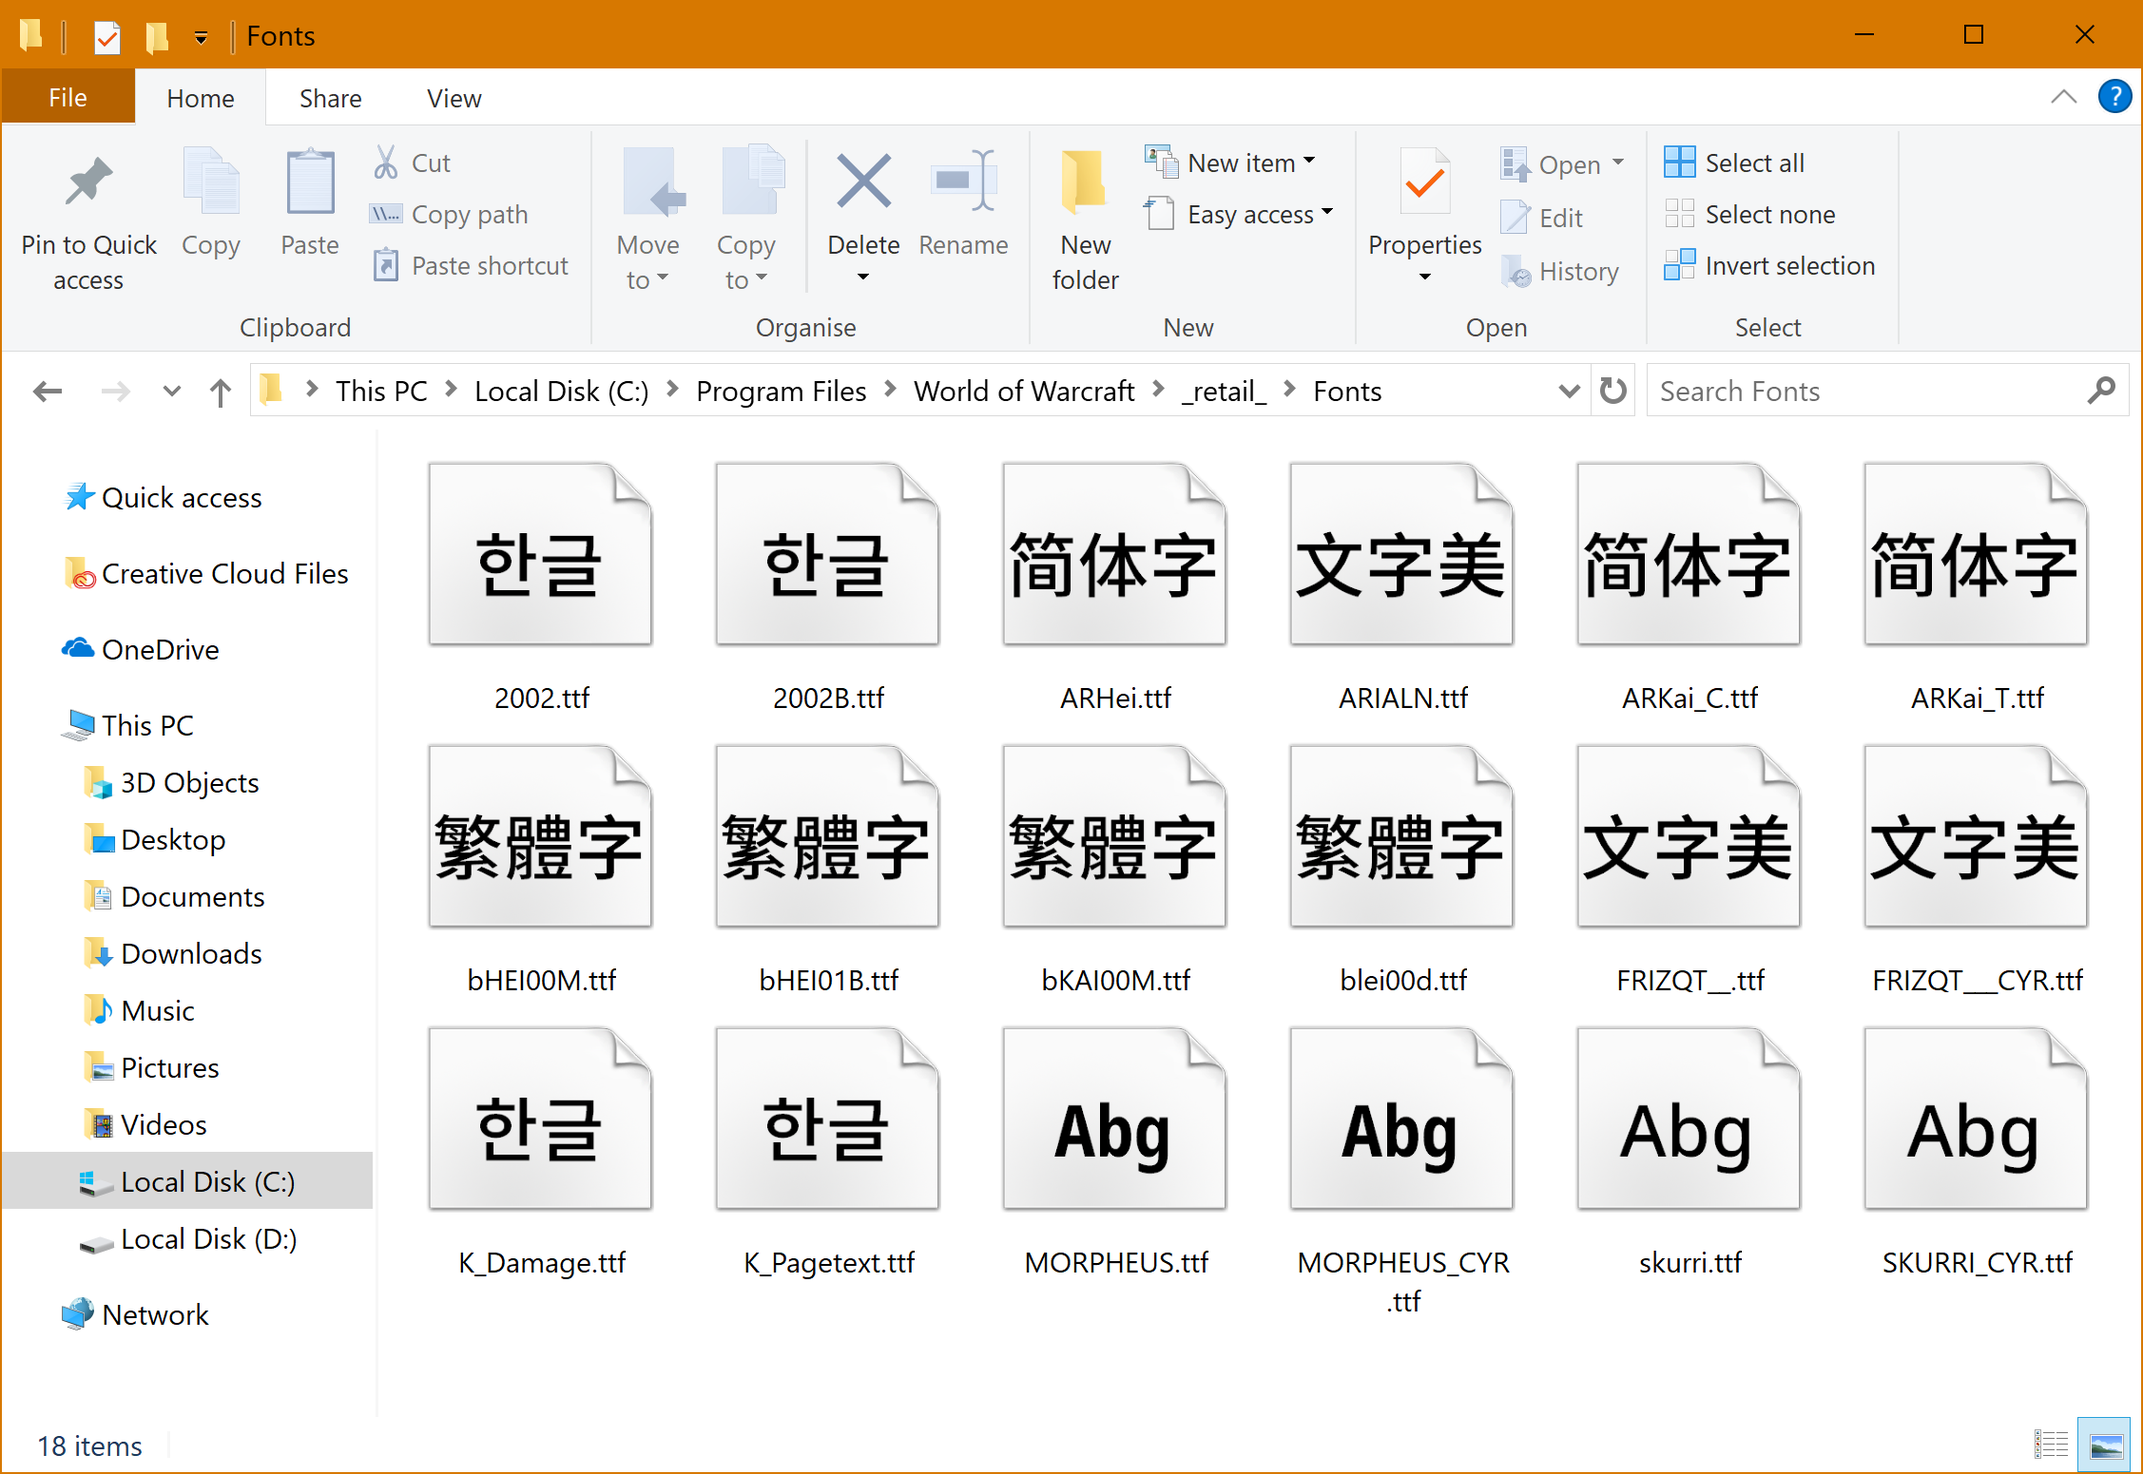
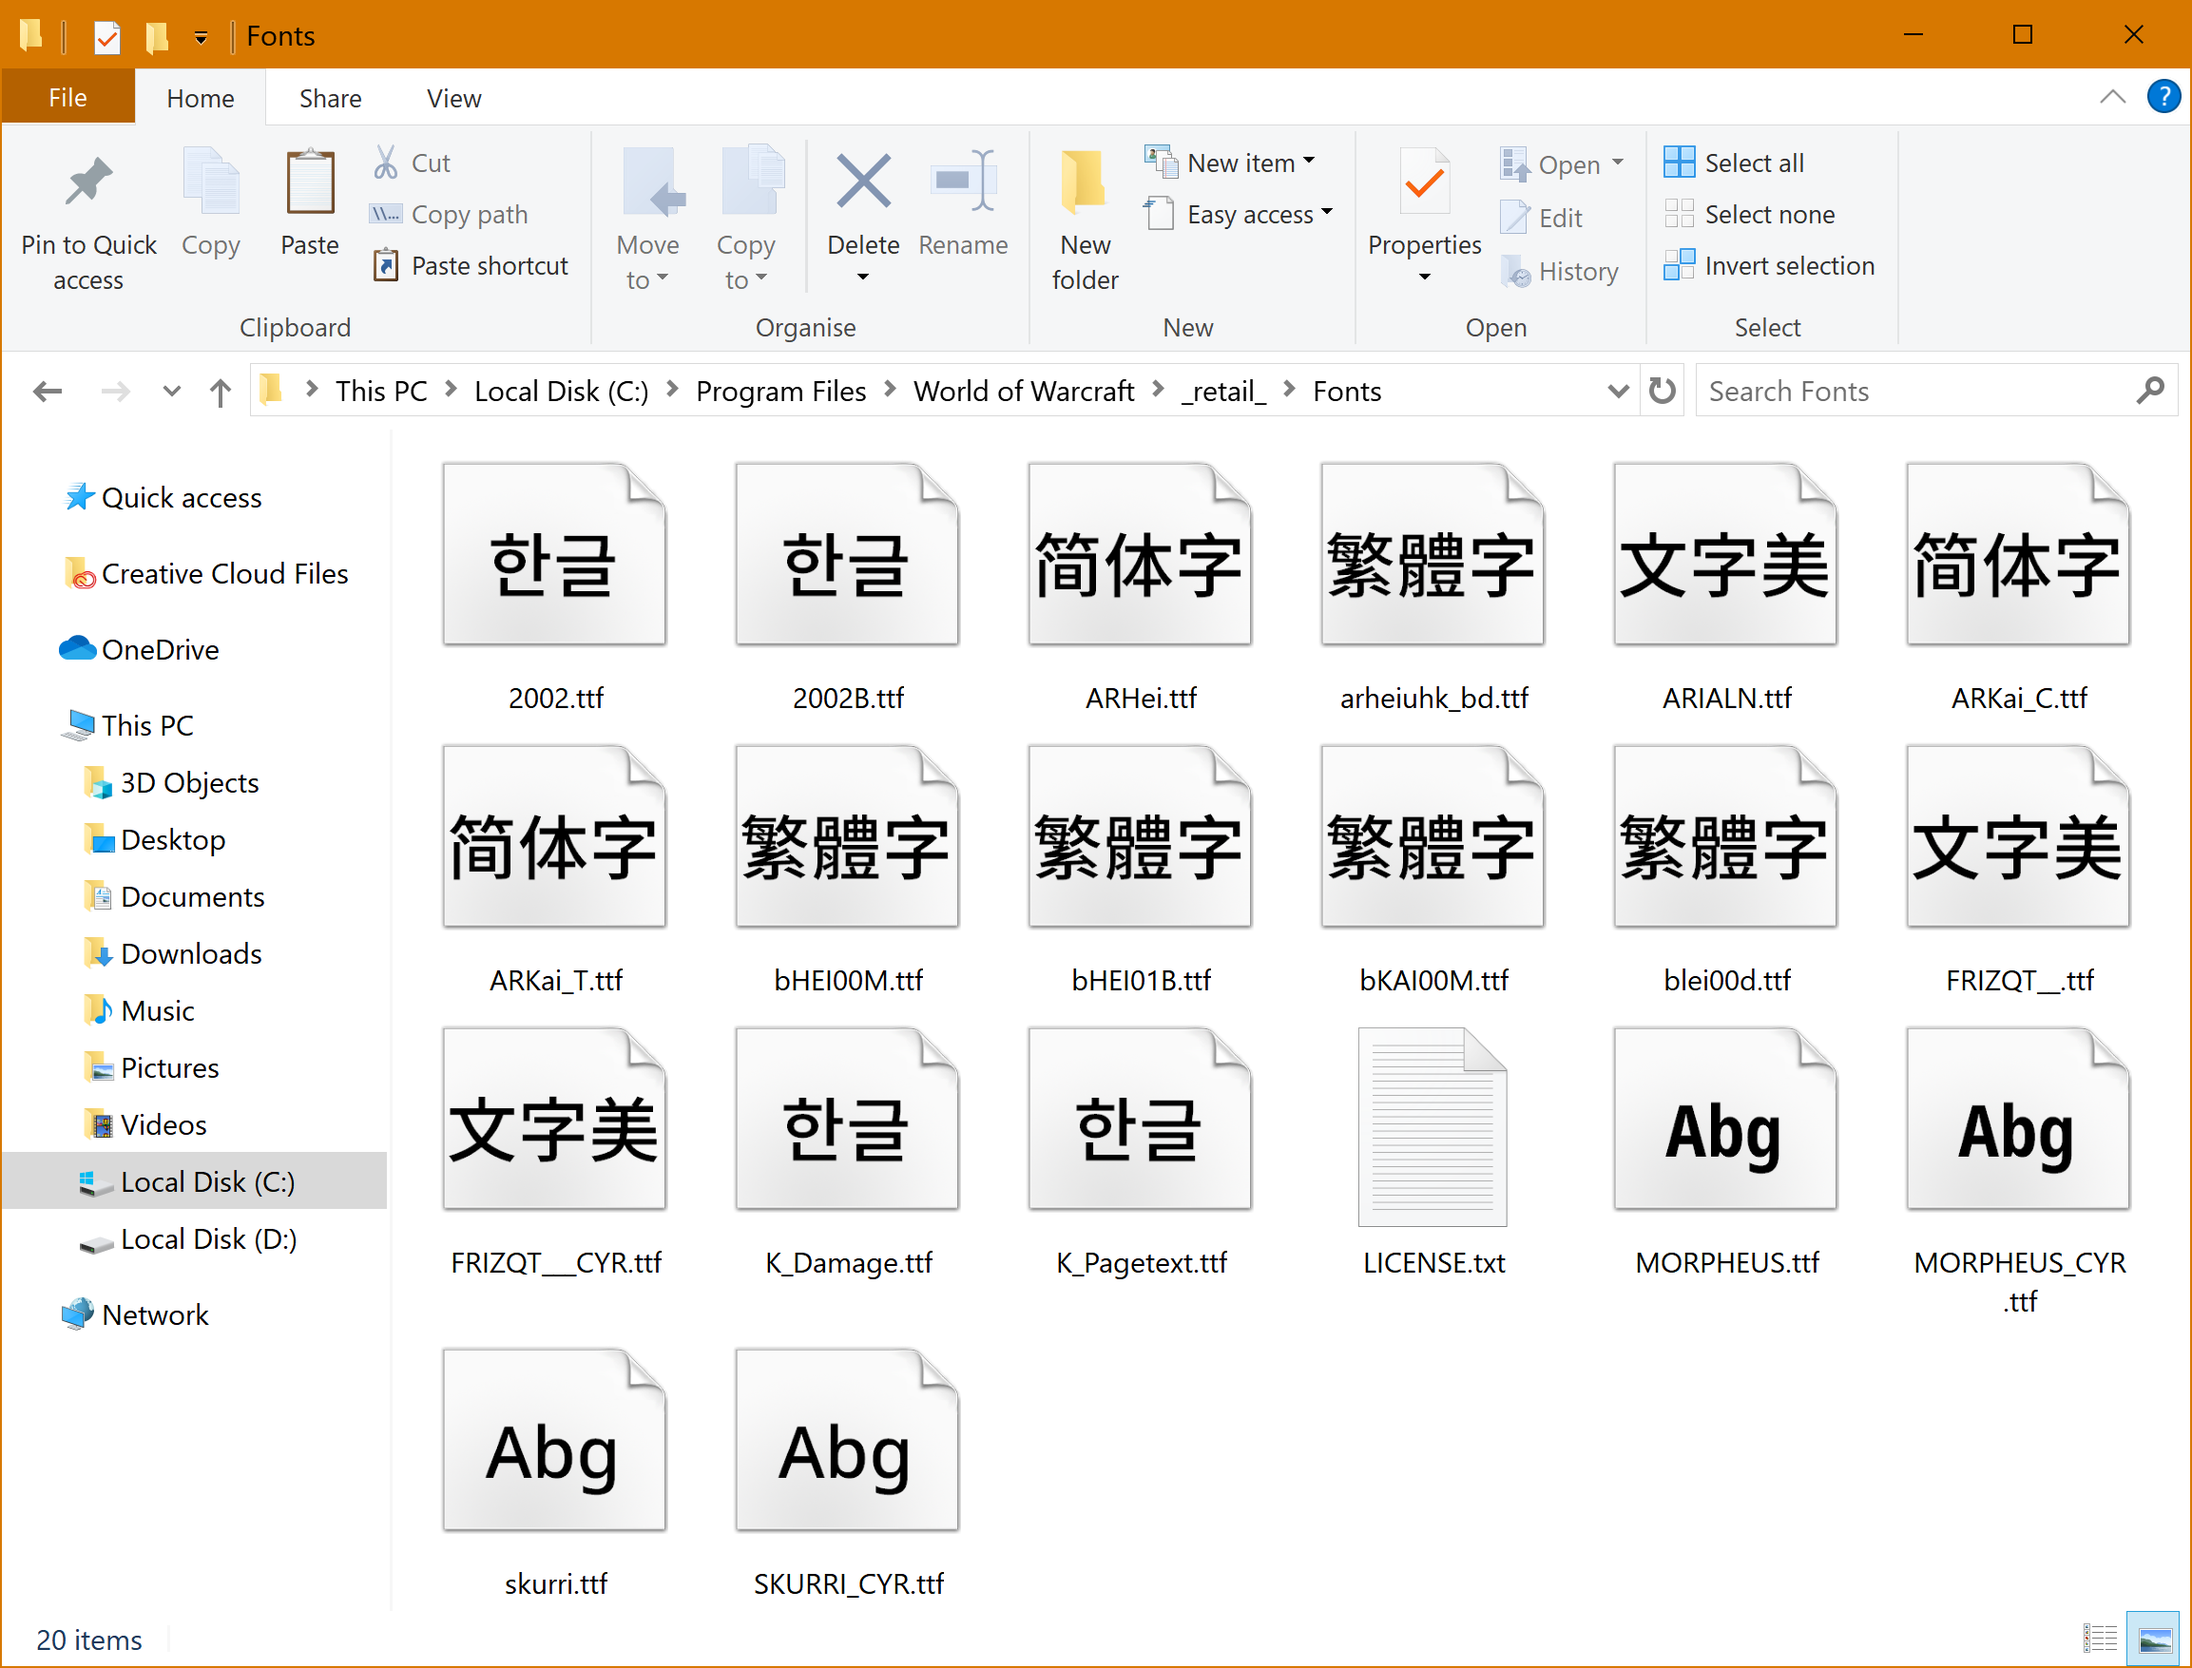
0.5.1: update for WoW 8.2's new font file name

diff --git a/README.md b/README.md
@@ -44,10 +44,6 @@ Orthographies for each variant and client language are listed below.
 
 Nowar Sans is also avialable as an addon (REALLY HUGE!), to register Nowar Sans typeface to SharedMedia.
 
-## Supported Scripts
-
-![Supported Scripts](scripts.png)
-
 ## How to Build
 
 Dependencies: Python and [otfcc](https://github.com/caryll/otfcc).

diff --git a/README-Hans.md b/README-Hans.md
@@ -43,7 +43,3 @@
 ### SharedMedia 字体包
 
 有爱黑体也可以以插件的形式安装（**很大！**），启用之后会向 SharedMedia 注册有爱黑体字族。
-
-## 有爱黑体支持的文字
-
-![支持的文字](scripts.png)

diff --git a/README-Hant.md b/README-Hant.md
@@ -43,7 +43,3 @@
 ### SharedMedia 字型包
 
 有愛黑體也可以以插件的形式安裝（**很大！**），啓用之後會向 SharedMedia 登錄有愛黑體字體。
-
-## 有愛黑體支援的文字
-
-![支援的文字](scripts.png)
